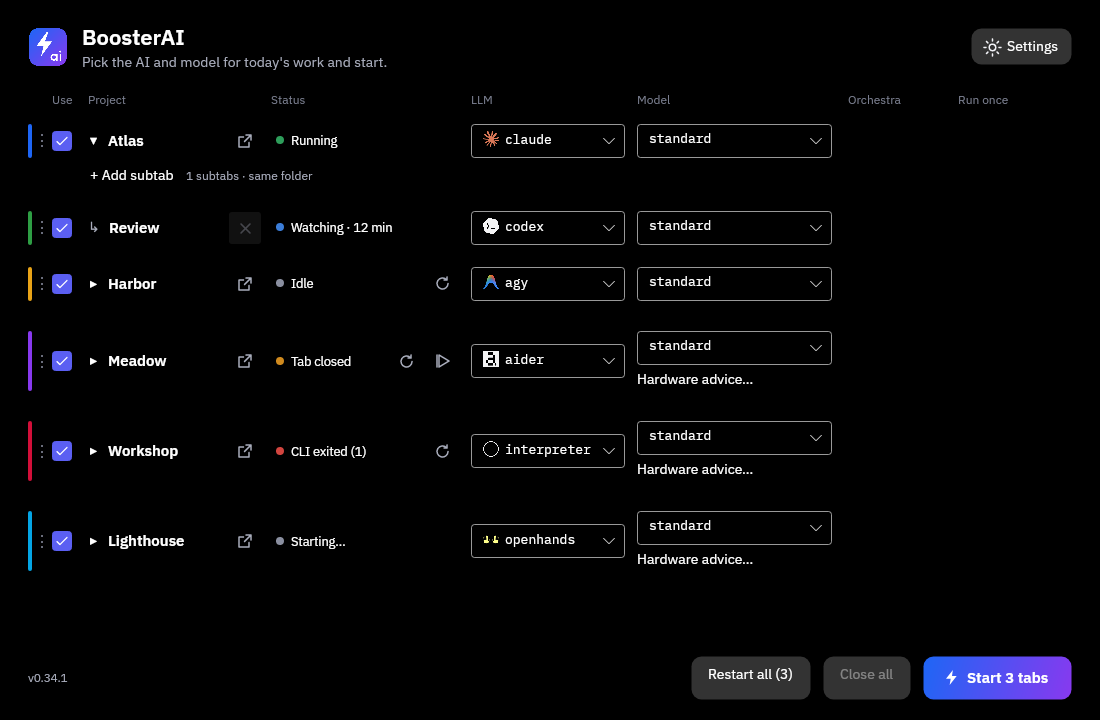
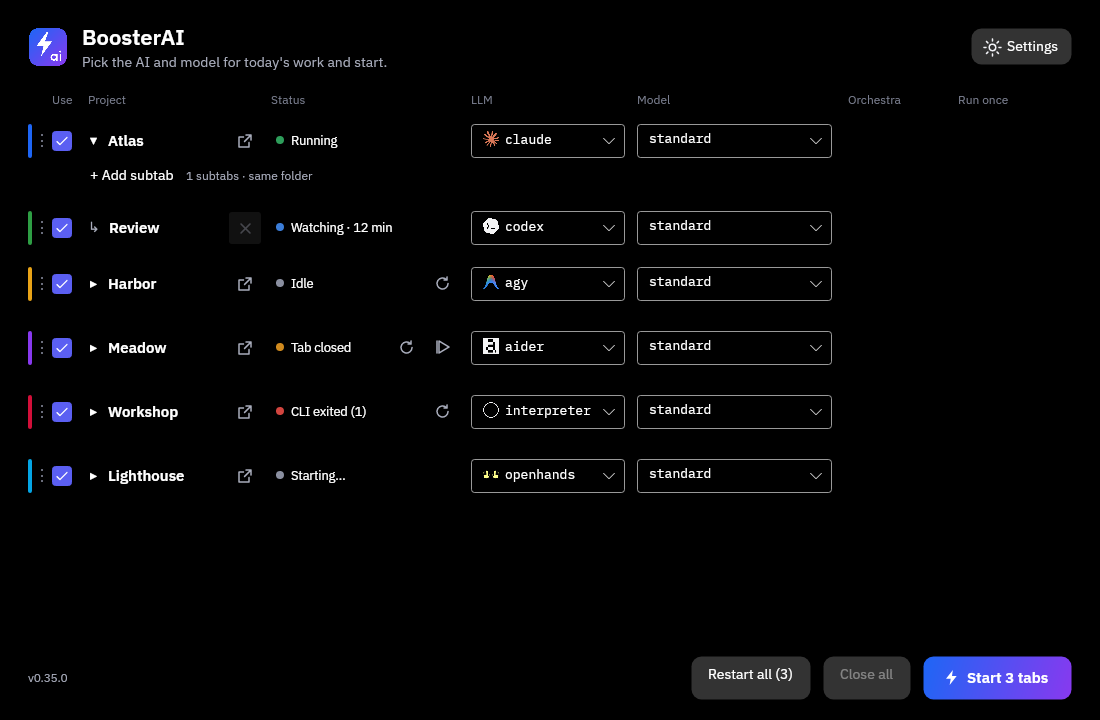
Document model planning and advice before installation

diff --git a/docs/index.html b/docs/index.html
@@ -769,7 +769,7 @@
             <div style="width: 20px;"></div>
           </div>
           <div class="showcase-media-container">
-            <img id="previewImg" class="showcase-media" src="screenshot-dark.png?v=20261109-139" alt="BoosterAI with six AI CLIs selected across example project tabs">
+            <img id="previewImg" class="showcase-media" src="screenshot-dark.png?v=20261109-139ux" alt="BoosterAI with six AI CLIs selected across example project tabs">
           </div>
         </div>
       </div>
@@ -998,8 +998,8 @@
       };
       img.alt = descriptions[mode] || 'BoosterAI app screenshot';
       setTimeout(() => {
-        if (mode === 'dark') img.src = 'screenshot-dark.png?v=20261109-139';
-        else if (mode === 'light') img.src = 'screenshot.png?v=20261109-139';
+        if (mode === 'dark') img.src = 'screenshot-dark.png?v=20261109-139ux';
+        else if (mode === 'light') img.src = 'screenshot.png?v=20261109-139ux';
         else if (mode === 'settings') img.src = 'settings-general.png?v=20261109-137';
         else if (mode === 'appearance') img.src = 'settings-appearance.png?v=20261105';
         else if (mode === 'memory') img.src = 'settings-ram.png?v=20261109-135';

diff --git a/docs/DEVELOPMENT.md b/docs/DEVELOPMENT.md
@@ -46,7 +46,7 @@ To add a string: add the same key to both `src/BoosterAI/Resources/Strings.sv.js
 
 ## Screenshots
 
-`BoosterAI --screenshot <file.png> [--window main|settings|install|import|restart|close|alias|wsl|wsl-shutdown|agent-yolo] [--tab projects|general|optimization|appearance|agents] [--theme light|dark] --config <neutral.json>` renders a window headless: nothing is shown and focus does not change. The title bar is not rendered. Use a config with invented project names, never personal ones; `Language` in it picks Swedish or English. The sample status column shows automatically. A neutral config can include `SubTabs` under a project and `Expanded: true` to render its expanded group; child directories resolve to that project folder. `docs/screenshot.png` and `docs/settings.png` in the README are made this way. `--tab <tab>` selects the tab when rendering `--window settings` (projects by default; `--fake-setup` defaults to general). The optimization tab opens its RAM overview; `--section usage|limit|environment` selects its left-hand page. `--width 640 --height 400` renders the minimum Settings size. `--fake-memory-state empty|partial|stale|legacy|outside` supplies neutral edge-case data on optimization pages. The optimization tab uses neutral sample hardware (64 GB) and 30 minutes of sample WSL memory history (8.2–17.6 GB, average 11.7 GB, current 12.4 GB); no live process query is made. `--fake-memory-cap 48` shows a selected cap outside the suggested 24–32 GB range; `--fake-memory-saved 24` treats that cap as already in `.wslconfig` (no banner), so *Save to .wslconfig* stays disabled until the selection differs. `--window local-model [--section limited|fits|remote]` shows local model advice with synthetic metadata and hardware (no live probes); omitting the section shows its unmeasured state. `--window import` shows the Find projects dialog with a fixed sample list (no disk access). `--window setup --section welcome|settings|projects|install|progress|done|upgrade` renders a step of the setup wizard with a neutral sample install plan (`C:\Users\me\...`) and, from the projects step on, a fixed sample project list (no disk scan, nothing installed); `--window uninstall` shows the uninstall confirmation for the same sample plan. `--fake-update 0.3.0` adds the update bar as an installed copy shows it, `--fake-update manual:0.3.0` as a copy that can only link to the releases page (screenshots only, no network); both show a sample one-line summary with *Show more*, `plain:0.3.0` leaves it out as for an older release. `--fake-status "text"` / `--fake-status "error:text"` sets the status line at the bottom to a normal / error message (screenshots only). `--fake-orchestra-idle` shows a neutral idle Claude orchestra with its in-session reload icon (no live session or process); `--fake-changed` shows the first AI tab running a turn with another model than the chosen one (the restart button with its "restart with" tip); `--window restart` shows the restart confirmation for it. `--fake-restartable N` ends the first N AI sample tabs so the per-tab restart buttons and the "Restart all" button beside Start (shown from two restartable tabs) appear. `--window close` shows the save-and-close progress dialog (sample only, no process control). `--dry-run-close` prints the save/close commands with example process identities without running them. `--fake-output` opens the first running sample tab's status popup with a sample claude screen (replayed through `TerminalText`), `--fake-output 1` the Watching Run once tab's with sample formatter lines; the popup is drawn onto the window frame below the status, since a headless popup is its own surface. `--fake-setup` shows the setup bar with codex and agy missing (and npm), `--fake-setup wsl` the missing-WSL bar and `--fake-setup alias` installed CLIs without permission aliases (no setup offer) (samples only, no shell is run; Settings then shows the sample check result); `--window alias` and `--window wsl` show their confirmation dialogs. Screenshots and tests never run the real setup check: only the real app starts it.
+`BoosterAI --screenshot <file.png> [--window main|settings|install|import|restart|close|alias|wsl|wsl-shutdown|agent-yolo] [--tab projects|general|optimization|appearance|agents] [--theme light|dark] --config <neutral.json>` renders a window headless: nothing is shown and focus does not change. The title bar is not rendered. Use a config with invented project names, never personal ones; `Language` in it picks Swedish or English. The sample status column shows automatically. A neutral config can include `SubTabs` under a project and `Expanded: true` to render its expanded group; child directories resolve to that project folder. `docs/screenshot.png` and `docs/settings.png` in the README are made this way. `--tab <tab>` selects the tab when rendering `--window settings` (projects by default; `--fake-setup` defaults to general). The optimization tab opens its RAM overview; `--section usage|limit|environment` selects its left-hand page. `--width 640 --height 400` renders the minimum Settings size. `--fake-memory-state empty|partial|stale|legacy|outside` supplies neutral edge-case data on optimization pages. The optimization tab uses neutral sample hardware (64 GB) and 30 minutes of sample WSL memory history (8.2–17.6 GB, average 11.7 GB, current 12.4 GB); no live process query is made. `--fake-memory-cap 48` shows a selected cap outside the suggested 24–32 GB range; `--fake-memory-saved 24` treats that cap as already in `.wslconfig` (no banner), so *Save to .wslconfig* stays disabled until the selection differs. `--window settings --tab agents --section missing` renders all three local-capable CLIs missing; `aider-missing-cpu`, `interpreter-missing` and `openhands-missing-gpu` select their advice pages and optional planning profiles. Agent screenshots use synthetic hardware and never probe the real host. `--window local-model [--section limited|fits|remote]` shows local model advice with synthetic metadata and hardware (no live probes); omitting the section shows its unmeasured state. `--window import` shows the Find projects dialog with a fixed sample list (no disk access). `--window setup --section welcome|settings|projects|install|progress|done|upgrade` renders a step of the setup wizard with a neutral sample install plan (`C:\Users\me\...`) and, from the projects step on, a fixed sample project list (no disk scan, nothing installed); `--window uninstall` shows the uninstall confirmation for the same sample plan. `--fake-update 0.3.0` adds the update bar as an installed copy shows it, `--fake-update manual:0.3.0` as a copy that can only link to the releases page (screenshots only, no network); both show a sample one-line summary with *Show more*, `plain:0.3.0` leaves it out as for an older release. `--fake-status "text"` / `--fake-status "error:text"` sets the status line at the bottom to a normal / error message (screenshots only). `--fake-orchestra-idle` shows a neutral idle Claude orchestra with its in-session reload icon (no live session or process); `--fake-changed` shows the first AI tab running a turn with another model than the chosen one (the restart button with its "restart with" tip); `--window restart` shows the restart confirmation for it. `--fake-restartable N` ends the first N AI sample tabs so the per-tab restart buttons and the "Restart all" button beside Start (shown from two restartable tabs) appear. `--window close` shows the save-and-close progress dialog (sample only, no process control). `--dry-run-close` prints the save/close commands with example process identities without running them. `--fake-output` opens the first running sample tab's status popup with a sample claude screen (replayed through `TerminalText`), `--fake-output 1` the Watching Run once tab's with sample formatter lines; the popup is drawn onto the window frame below the status, since a headless popup is its own surface. `--fake-setup` shows the setup bar with codex and agy missing (and npm), `--fake-setup wsl` the missing-WSL bar and `--fake-setup alias` installed CLIs without permission aliases (no setup offer) (samples only, no shell is run; Settings then shows the sample check result); `--window alias` and `--window wsl` show their confirmation dialogs. Screenshots and tests never run the real setup check: only the real app starts it.
 
 The update tests (`tests/BoosterAI.Tests/UpdateTests.cs`) run the real bash helper (Linux) or PowerShell helper (Windows) against a fake install in the temp folder. `BOOSTERAI_UPDATE_E2E=<scratch dir> dotnet test tests/BoosterAI.Tests --filter EndToEndLinuxUpdateFromGitHub` also downloads the latest Linux release (~40 MB), verifies it, swaps it into `<scratch dir>/fake-install` and runs its `--dry-run`; `~/.local/bin` is never touched.
 

diff --git a/docs/DETAILS.md b/docs/DETAILS.md
@@ -122,11 +122,22 @@ Only a copy in the location the installers use updates itself: `%LOCALAPPDATA%\P
 
 ## Local model hardware advice
 
-The model selector shows **Hardware advice…** for Aider, Open Interpreter and OpenHands. This optional window assesses the selected model **on this computer**; it never blocks Start, changes CLI configuration or downloads/loads a model. Opening it performs no hardware or server probes. **Read hardware and model metadata** takes one snapshot; close and reopen it to clear its temporary inputs and readings.
+Settings → **AI agents** shows local model advice on the Aider, Open Interpreter and OpenHands overview pages, **even before installation and without a project using that CLI**. The **All agents** cards show the same concise status. Install remains visible beside the agent identity. Advice applies to local inference, never to the CLI itself or its cloud/API use; it does not block installation or Start, change CLI configuration or download/load a model.
+
+Opening AI agents automatically takes one lightweight hardware snapshot in the real app, shared by the three pages and cached for two minutes. Returning to the settings window or reopening the tab refreshes an expired snapshot; agent version checks use their separate 30-second cache. Constructors, tests and headless screenshots never start live hardware probes. Background installation/version updates preserve the advice, selected planning profile, navigation and unsaved editors. No model server is contacted automatically.
+
+No planning model is selected by default: the status explicitly remains **model dependent**, with measured resources and an explanation of how to proceed. You can install for cloud/API use, select a named planning example before downloading anything, or expand **Have a local Ollama model? Assess it** to check your actual installed model inline. There is no project-row advice link to discover first.
+
+Planning examples have explicit assumptions and source links, verified 2026-11-09:
+
+- Aider/Open Interpreter: `qwen2.5-coder:7b-instruct-q4_K_M` **on CPU**, using Ollama’s published **approximately 4.7 GB** [file-size estimate](https://ollama.com/library/qwen2.5-coder:7b-instruct-q4_K_M). Decimal GB are compared as 4,700,000,000 bytes; this is neither a locally measured file nor a full RAM requirement. Insufficient available RAM warns about this CPU scenario; room for the file does not establish context capacity, speed or coding quality.
+- OpenHands: quantized **Qwen3.6-35B-A3B on one GPU**, using its documented [at least 24 GB VRAM guidance](https://docs.openhands.dev/openhands/usage/llms/local-llms). The published GB threshold is compared as 24,000,000,000 bytes, avoiding false rejection of nominal 24 GB cards whose reported MiB are slightly reserved. Multiple GPU capacities are not added together. Reaching the capacity level does not prove driver/runtime compatibility or speed; other variants, context sizes and multi-GPU setups need separate assessment.
+
+Planning selections and measurements are temporary and do not change any tab or external CLI settings. New hardware snapshots recalculate planning advice and invalidate an old exact-model verdict; a late model-metadata response cannot restore a verdict based on the old snapshot.
 
 A CLI name does not establish local inference. `ollama/` (also Aider’s `ollama_chat/`) identifies a provider, while the actual endpoint remains unknown. API-looking IDs are described as hints of remote inference and never receive a warning based on this computer’s resources. `standard`, Interpreter’s `local`, custom provider aliases and external configuration need explicit verification. Aider’s [`OLLAMA_API_BASE`](https://aider.chat/docs/llms/ollama.html), current Interpreter’s [`CODEX_OSS_BASE_URL`/port and saved provider](https://www.openinterpreter.com/docs/terminal/models), OpenHands’ [server configuration](https://docs.openhands.dev/openhands/usage/llms/local-llms), legacy CLI settings and shell wrappers can change the actual backend. BoosterAI does not try to reconstruct these overlapping settings.
 
-For an Ollama assessment, enter the exact installed model ID and tag and confirm that the agent uses the specified loopback server **on the same operating system as BoosterAI**, outside WSL/containers. For a default/picker model, enter the actual ID after checking the CLI. This is an assessment input, not a model selection or endpoint override. Other local backends, LAN/remote endpoints, authenticated servers and unknown configurations retain an **insufficient information** result. You can still run them normally.
+In the inline Ollama assessment, enter the exact installed model ID and tag and confirm that the agent uses the specified loopback server **on the same operating system as BoosterAI**, outside WSL/containers. For a default/picker model, enter the actual ID after checking the CLI. This is an assessment input, not a model selection or endpoint override. Other local backends, LAN/remote endpoints, authenticated servers and unknown configurations retain an **insufficient information** result. You can still run them normally.
 
 The check uses only read-only [`GET /api/tags`](https://docs.ollama.com/api/tags) and [`GET /api/ps`](https://docs.ollama.com/api/ps). It accepts loopback HTTP without credentials, proxies or redirects, with a four-second deadline and 1 MiB response limit for each request. It matches the exact tag (`:latest` only when omitted), and matches the loaded model’s name and digest. It never guesses bytes from “7B”, quantization labels or a different tag. Ollama’s remote-model metadata and cloud tags are treated as remote even when served by localhost: [Ollama can proxy cloud inference](https://docs.ollama.com/cloud).
 
@@ -174,7 +185,7 @@ guidance. Older BoosterAI alias blocks remain recognized by the agent editor.
 
 ### Agent versions and permission modes
 
-Settings → **AI agents** opens an overview of all six supported programs, with local theme-aware icons, installation status, version and current permission mode. Select a card or a sidebar entry to open an agent. If its executable is missing, the page shows only the agent's identity and **Install** button. Installed agents provide **Overview**, **Permission alias** and **Context**; their installation details and context calculations are collapsible, and the actual detected alias and selected preset preview stay visible. Each page scrolls independently; switching agents or sections keeps the same editors and unsaved selections. The same icons identify agents in the main window selectors. The alias **Apply alias** action and compaction **Save for model** action remain separate. Versions are program versions, not model versions. Detection runs in the background in the tab's login environment. Each executable's `--version` and `--help` probe is bounded to two seconds (plus 0.2 seconds to force termination), with bounded output; the overall check remains limited to 30 seconds. A failed version probe leaves an installed CLI marked installed with **Unknown** version. Help failure hides unverified presets. No model or account is contacted intentionally by BoosterAI.
+Settings → **AI agents** opens an overview of all six supported programs, with local theme-aware icons, installation status, version and current permission mode. Select a card or a sidebar entry to open an agent. If its executable is missing, the page shows its identity and **Install** button; Aider, Open Interpreter and OpenHands also show local model advice before installation. Installed agents provide **Overview**, **Permission alias** and **Context**; their installation details and context calculations are collapsible, and the actual detected alias and selected preset preview stay visible. Each page scrolls independently; switching agents or sections keeps the same editors and unsaved selections. The same icons identify agents in the main window selectors. The alias **Apply alias** action and compaction **Save for model** action remain separate. Versions are program versions, not model versions. Detection runs in the background in the tab's login environment. Each executable's `--version` and `--help` probe is bounded to two seconds (plus 0.2 seconds to force termination), with bounded output; the overall check remains limited to 30 seconds. A failed version probe leaves an installed CLI marked installed with **Unknown** version. Help failure hides unverified presets. No model or account is contacted intentionally by BoosterAI.
 
 An alias is a shell shortcut that expands a CLI name into a command with extra flags.
 The permission page separates **Currently detected** (the actual shell alias or

diff --git a/docs/verification/139/ux/README.md b/docs/verification/139/ux/README.md
@@ -1,0 +1,29 @@
+# Advice before agent installation (#139, reopened after v0.35.0)
+
+The earlier dialog-only delivery was not discoverable before installation. Advice now belongs in **Settings → AI agents**: each of Aider, Open Interpreter and OpenHands has a visible overview panel even when missing, and **All agents** has concise local-model status. The Install action remains beside the agent identity; installed-agent navigation remains above the advice. The old project-row link was removed.
+
+The neutral fixtures here configure only Claude/Codex projects: no project uses Aider, Open Interpreter or OpenHands. Every screenshot uses synthetic hardware (16 GiB RAM, 3 GiB currently available, 8 logical processors and an example GPU with 8 GiB total/6 GiB free VRAM). No live hardware, shell detection, model server, download, model load or benchmark runs while rendering. Advice and installation are available independently.
+
+Inspected at the normal 920×700 Settings size:
+
+- [All three missing, Swedish](all-missing-sv.png) and [English](all-missing-en.png): all six cards and the three local-model statuses are visible; irrelevant global context/version buttons are absent (#140).
+- [Missing Aider, Swedish](aider-missing-sv.png): a deliberately selected CPU planning example shows a concrete RAM warning, its assumptions and source; Install is visible.
+- [Missing Interpreter, English](interpreter-missing-en.png): no model is preselected; measured resources, uncertainty, cloud/API alternative and next step are visible before installation.
+- [Missing OpenHands, Swedish](openhands-missing-sv.png): an explicitly selected GPU planning example warns about insufficient measured capacity for that example, independently of CLI/cloud suitability; Install is visible.
+- [Installed Aider, English](aider-installed-en.png) and [installed Interpreter, Swedish](interpreter-installed-sv.png): Overview/Permission alias/Context navigation remains at the top; advice does not hide other sections.
+
+Planning data was verified against primary sources on 2026-11-09: [Ollama’s exact Qwen2.5-Coder 7B Q4_K_M tag](https://ollama.com/library/qwen2.5-coder:7b-instruct-q4_K_M) publishes an approximately 4.7 decimal GB model file; [OpenHands’ local model guide](https://docs.openhands.dev/openhands/usage/llms/local-llms) gives 24 GB VRAM guidance for quantized Qwen3.6-35B-A3B. Neither is a generic CLI threshold or performance guarantee. No planning profile is selected by default. [Method and limits](../../../DETAILS.md#local-model-hardware-advice) distinguish local measurements, source estimates, unknown GPU support, context overhead and WSL/container restrictions.
+
+Verification includes classification/probe tests, shared read/cache/cancellation, advice before installation, unknown hardware, documented planning boundaries, no GPU summation, reserved memory on nominal 24 GB cards, preservation through background installation checks, and invalidation of old exact-model advice and late replies when a new hardware snapshot arrives. Final source revision and combined Linux/Windows build/test counts are recorded in the integration handoff. The earlier images one directory above record the original v0.35.0 implementation, not the current entry point.
+
+Render after `dotnet build src/BoosterAI -c Release`, for example:
+
+```sh
+src/BoosterAI/bin/Release/net10.0/BoosterAI --screenshot docs/verification/139/ux/all-missing-sv.png --window settings --tab agents --section missing --theme light --config docs/verification/139/ux/neutral-sv.json
+src/BoosterAI/bin/Release/net10.0/BoosterAI --screenshot docs/verification/139/ux/aider-missing-sv.png --window settings --tab agents --section aider-missing-cpu --theme light --config docs/verification/139/ux/neutral-sv.json
+src/BoosterAI/bin/Release/net10.0/BoosterAI --screenshot docs/verification/139/ux/interpreter-missing-en.png --window settings --tab agents --section interpreter-missing --theme dark --config docs/verification/139/ux/neutral-en.json
+src/BoosterAI/bin/Release/net10.0/BoosterAI --screenshot docs/verification/139/ux/openhands-missing-sv.png --window settings --tab agents --section openhands-missing-gpu --theme light --config docs/verification/139/ux/neutral-sv.json
+src/BoosterAI/bin/Release/net10.0/BoosterAI --screenshot docs/verification/139/ux/aider-installed-en.png --window settings --tab agents --section aider --theme light --config docs/verification/139/ux/neutral-en.json
+```
+
+Switch the language-specific config/theme for the matching overview or installed Interpreter image. Main-window documentation images were also regenerated at 1100×720; all six example CLIs remain visible, and the advice link has moved to Settings.

diff --git a/README.md b/README.md
@@ -15,7 +15,7 @@ Start your whole working day with one click: BoosterAI opens every project you w
 - **Model control:** Pick a model per tab. Interactive Claude, Codex and Aider tabs can resume after a model change when no other tab shares their CLI and folder; see the [conversation limits](docs/DETAILS.md#multiple-tabs-for-one-project).
 - **Agent overview:** Recognize each CLI by its icon; manage installation, permissions and context in separate settings sections.
 - **Context budgets:** Choose Off, Auto or Manual under Optimization; tune or reset individual agents in Manual. Auto uses known model capacity and an explained task reserve. [How budgets work](docs/DETAILS.md#auto-compaction-budgets).
-- **Local model advice:** Check measured RAM, CPU and available NVIDIA VRAM against an exact installed Ollama model from the Aider, Open Interpreter or OpenHands model selector. [Evidence and limits](docs/DETAILS.md#local-model-hardware-advice).
+- **Local model advice:** See local model guidance in Settings → AI agents for Aider, Open Interpreter and OpenHands, including before installation. Compare documented planning examples or assess an existing Ollama model against measured hardware. [Evidence and limits](docs/DETAILS.md#local-model-hardware-advice).
 - **Live Peek:** Hover any tab's status badge, or focus it and press Enter/Space, to stream its last 20 terminal output lines live &mdash; never break focus to check if an agent is done.
 - **Orchestra on demand:** Native integration with [Dirigenten och orkestern](https://github.com/solwation/dirigenten-och-orkestern) for unattended autonomous queue execution. Reload an idle Claude orchestra in its existing conversation without restarting its tab.
 - **WSL memory guard:** Live RAM telemetry, 30-minute min/avg/max tracking, and memory cap tuning directly in Settings.
